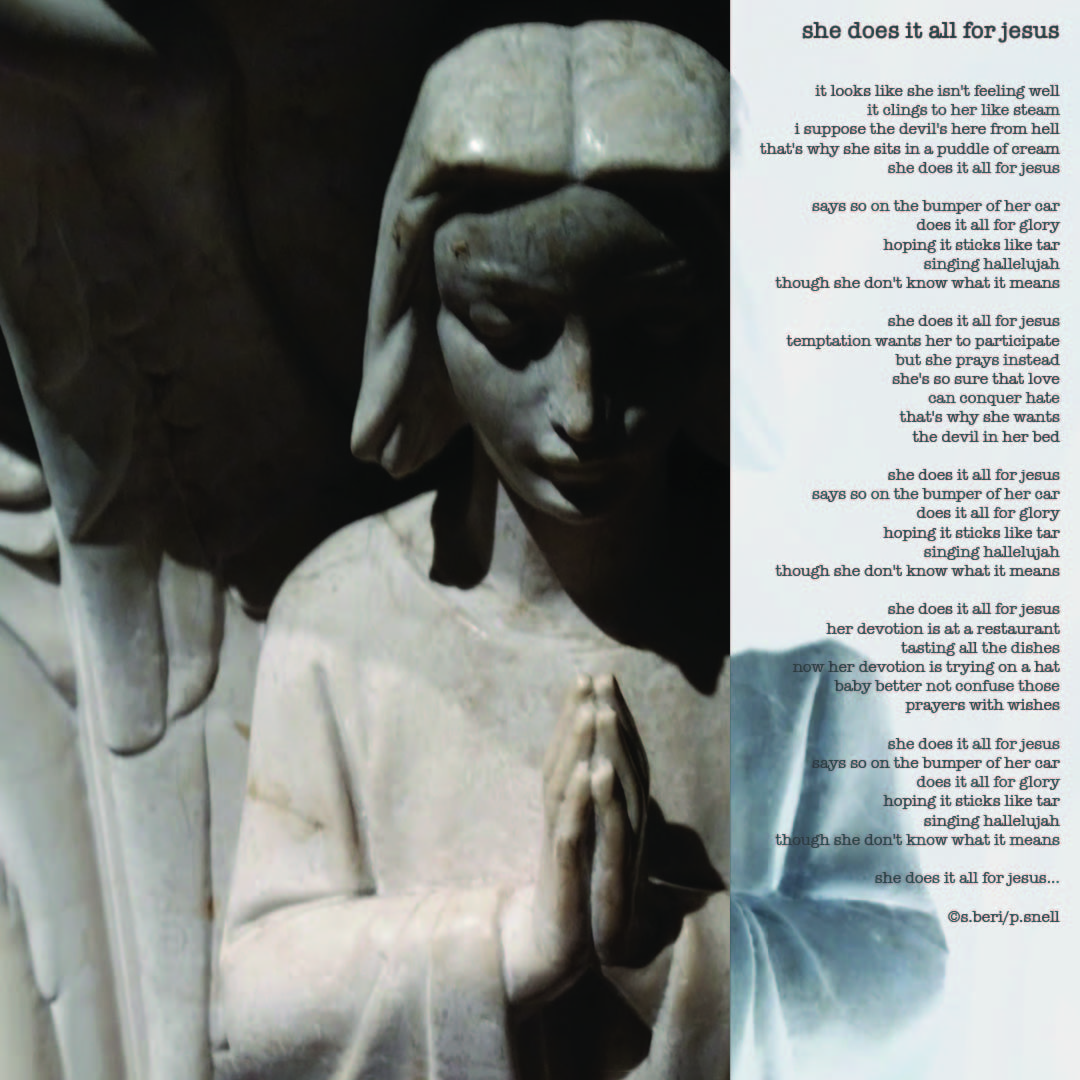
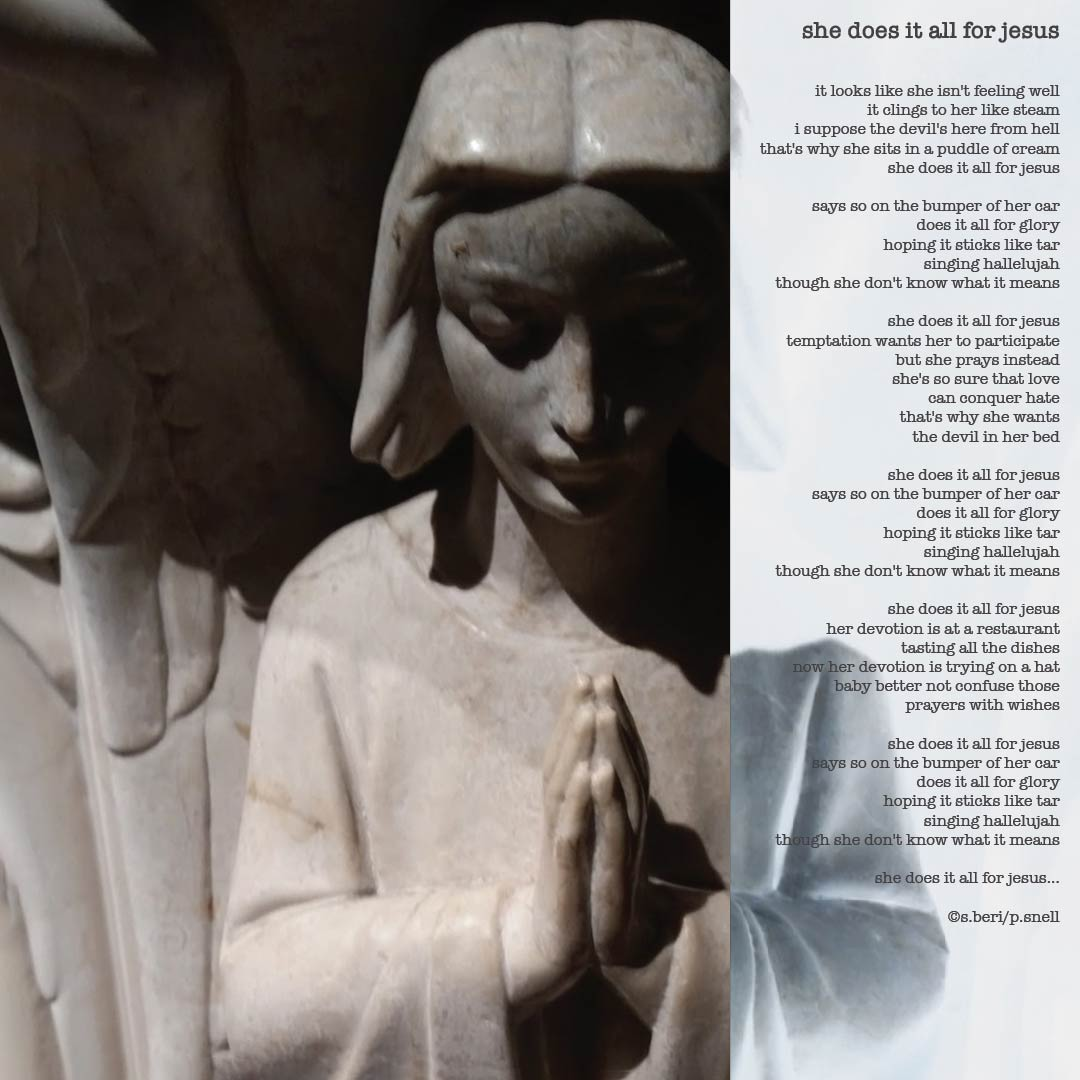
lyric fixes on lyric pages
and added box shadow to track listing on listen.html

Changed region(s): [[0.7028, 0.0611, 0.9778, 0.8556], [0.7333, 0.7639, 0.7639, 0.7944]]

diff --git a/credits.html b/credits.html
@@ -161,7 +161,7 @@ padding-left: 5px;}
 <img src="img/Tom-Canning-Piano-sq.png" onmouseover="this.src='img/canning-credit.png' " onmouseout="this.src='img/Tom-Canning-Piano-sq.png' " class="gallery_img" alt="Tom Canning"></a>
 </figure>
 <figure class="gallery_item">
-<img src="img/Sinclair-Lott.jpg" onmouseover="this.src='img/credit-sinclair.png' " onmouseout="this.src='img/Sinclair-Lott.jpg' " class="gallery_img" alt="Sinclair Lott"></a>
+<img src="img/Sinclair-Lott.jpg" onmouseover="this.src='img/credit-sinclair.jpg' " onmouseout="this.src='img/Sinclair-Lott.jpg' " class="gallery_img" alt="Sinclair Lott"></a>
 </figure> 
 <figure class="gallery_item">
 <img src="img/Brad-Cobb-Mastering.png" onmouseover="this.src='img/credit-brad-cobb.png' " onmouseout="this.src='img/Brad-Cobb-Mastering.png' " class="gallery_img" alt="Brad Cobb"></a>
@@ -262,8 +262,8 @@ padding-left: 5px;}
   ____________________________________<br>
   07. girl like her<br>
   written by shandra beri and peter hughes snell<br>
+  <br> 
   musicians:<br>
-  <br>
   vocals - lead and background: shandra beri<br>
   guitars: peter hughes snell<br>
   piano: tom canning<br>

diff --git a/girl-like-her.html b/girl-like-her.html
@@ -58,7 +58,7 @@ color: #8A9FC0 !important;
     <a href="nymphs.html" class="primary-link">nymphs</a>
   </div>
   </nav>
-  <img src="img/girl-like-her.png" class="background-img" alt="cicada project brood x album girl like her">
+  <img src="img/girl-like-her.jpg" class="background-img" alt="cicada project brood x album girl like her">
 <div class="container-fluid">
   <p>
     in stores everywhere: <a href="https://www.amazon.com/Brood-X-Explicit-Cicada-Project/dp/B096X8PTVM"

diff --git a/show-it-to-me.html b/show-it-to-me.html
@@ -57,7 +57,7 @@ color: #8A9FC0 !important;}
     <a href="nymphs.html" class="primary-link">nymphs</a>
   </div>
   </nav>
-<img src="img/show-it-to-me-OCT21.jpg" class="background-img" alt="cicada project brood x show it to me">
+<img src="img/show-me-OCT21.jpg" class="background-img" alt="cicada project brood x show it to me">
 <div class="container-fluid">
   <p>
     in stores everywhere: <a href="https://www.amazon.com/Brood-X-Explicit-Cicada-Project/dp/B096X8PTVM"

diff --git a/hey-you.html b/hey-you.html
@@ -58,7 +58,7 @@ color: #8A9FC0 !important;
 <a href="nymphs.html" class="primary-link">nymphs</a>
 </div>
 </nav>
-<img src="img/hey-you.png" class="background-img" alt="cicada project brood x hey you">
+<img src="img/hey-you.jpg" class="background-img" alt="cicada project brood x hey you">
 <div class="container-fluid">
     <p>
         in stores everywhere: <a href="https://www.amazon.com/Brood-X-Explicit-Cicada-Project/dp/B096X8PTVM"

diff --git a/desire.html b/desire.html
@@ -58,7 +58,7 @@ body {
     <a href="nymphs.html" class="primary-link">nymphs</a>
   </div>
   </nav>
-  <img src="img/desire-space.jpg" class="background-img" alt="cicada project brood x desire">
+  <img src="img/desire-OCT21.jpg" class="background-img" alt="cicada project brood x desire">
 <div class="container-fluid">
   <p>
     in stores everywhere: <a href="https://www.amazon.com/Brood-X-Explicit-Cicada-Project/dp/B096X8PTVM"

diff --git a/so-hard.html b/so-hard.html
@@ -58,7 +58,7 @@
     <a href="nymphs.html" class="primary-link">nymphs</a>
   </div>
   </nav>
-  <img src="img/so-hard-space.jpg" class="background-img" alt="cicada project brood x so hard">
+  <img src="img/so-hard.jpg" class="background-img" alt="cicada project brood x so hard">
 <div class="container-fluid">
   <p>
     in stores everywhere: <a href="https://www.amazon.com/Brood-X-Explicit-Cicada-Project/dp/B096X8PTVM"

diff --git a/listen.html b/listen.html
@@ -58,7 +58,8 @@ min-height: 100%;
 .lyrics {
 font-family: "American Typewriter ITC W01 Md";
 padding: 0%;
-color: #19284F;
+color: #ecdec2;
+text-shadow: 1px 1px 1px #4c2e1b;
 }
 </style>
 <script type="text/javascript">
